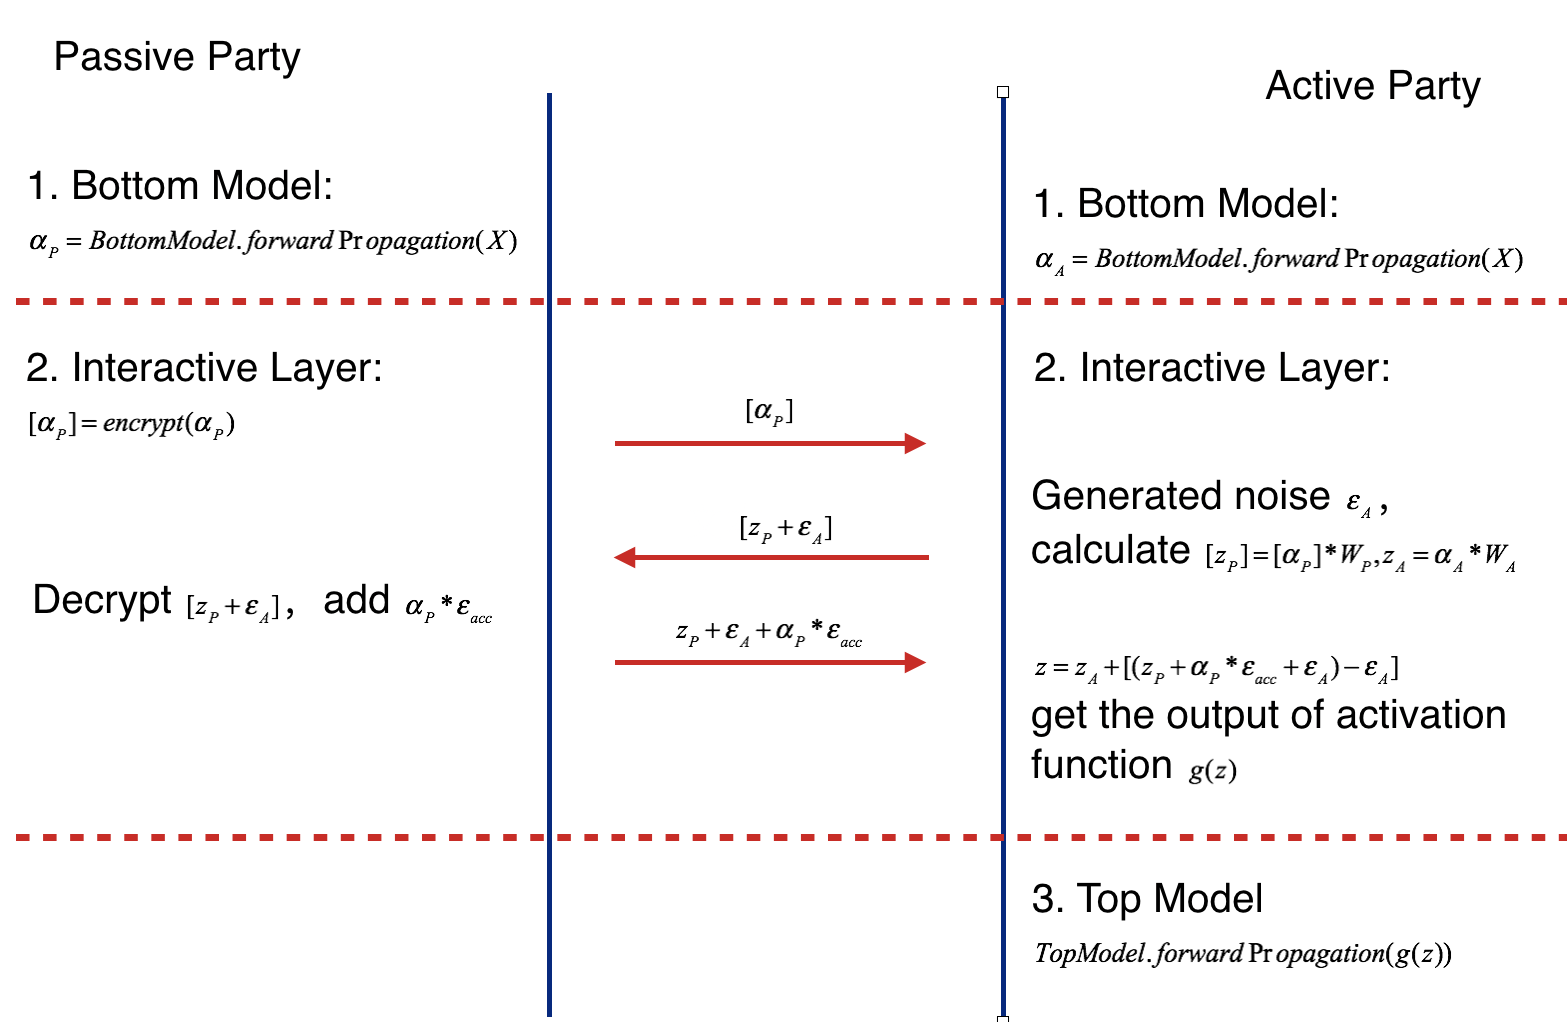
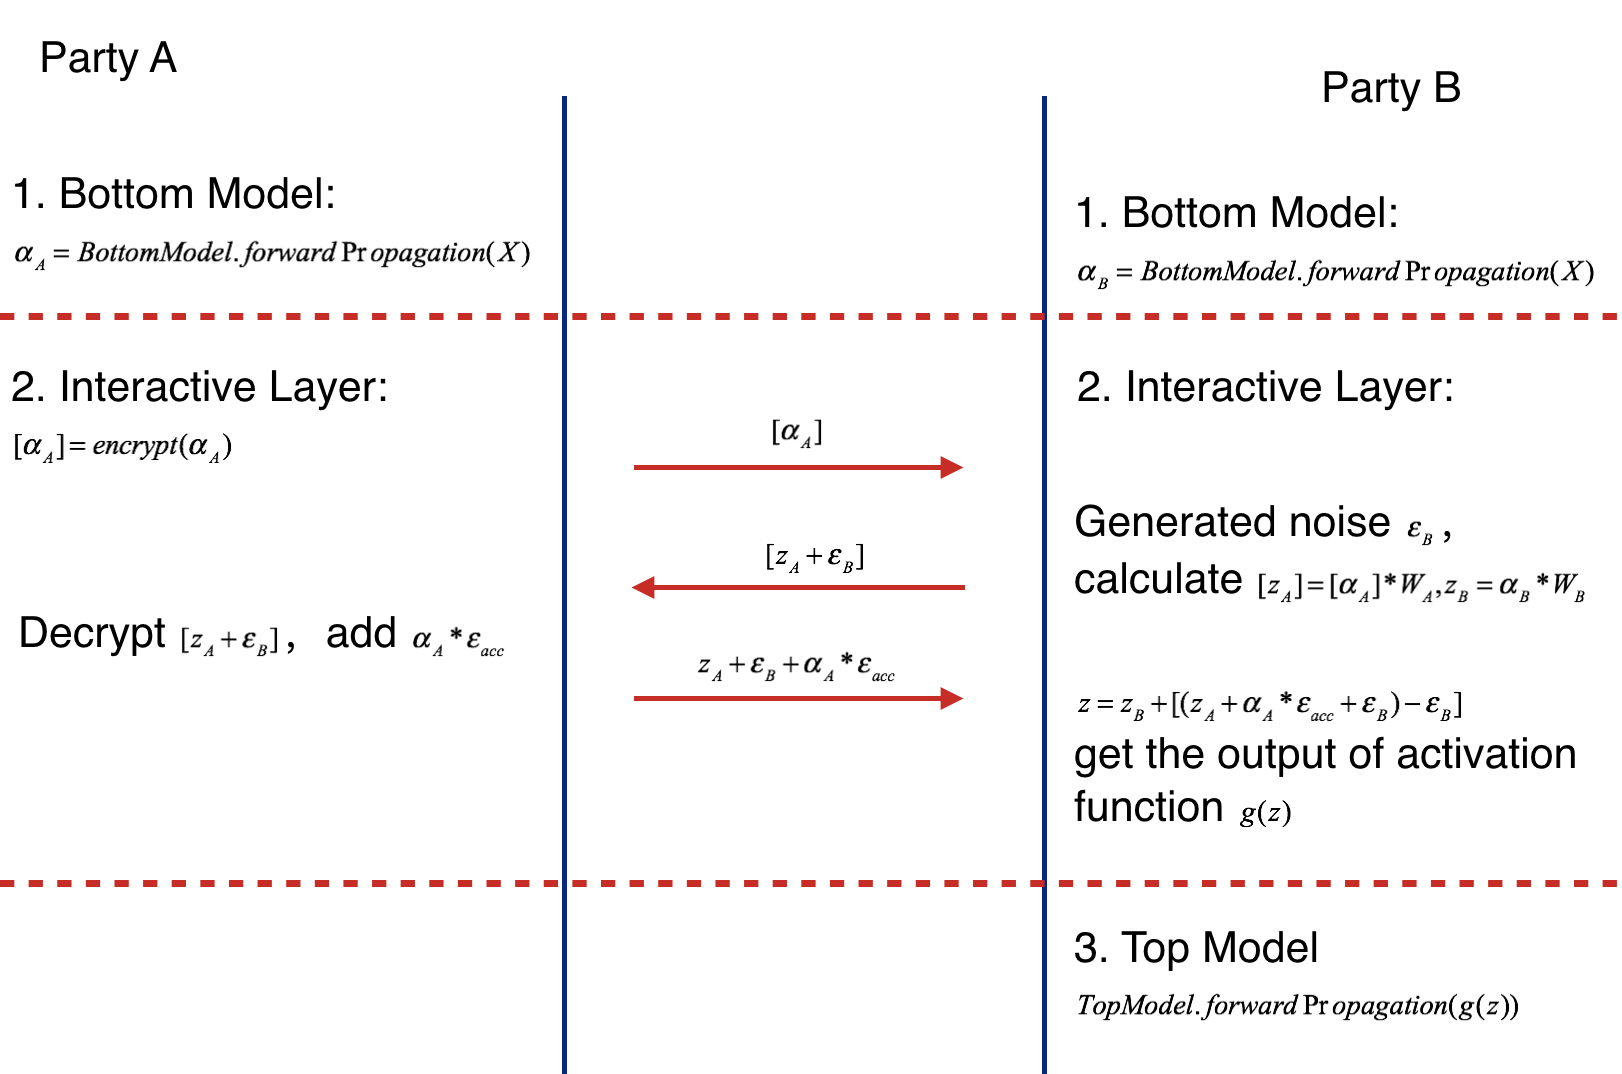
modify readme doc of heteronn

diff --git a/federatedml/param/hetero_nn_param.py b/federatedml/param/hetero_nn_param.py
@@ -29,6 +29,32 @@ from federatedml.util import consts
 
 
 class HeteroNNParam(BaseParam):
+    """
+    Parameters used for Homo Neural Network.
+
+    Args:
+        task_type: str, task type of hetero nn model, one of 'classification', 'regression'.
+        config_type: str, accept "keras" only.
+        bottom_nn_define: a dict represents the structure of bottom neural network.
+        interactive_layer_define: a dict represents the structure of interactive layer.
+        interactive_layer_lr: float, the learning rate of interactive layer.
+        top_nn_define: a dict represents the structure of top neural network.
+        optimizer: optimizer method, accept following types:
+            1. a string, one of "Adadelta", "Adagrad", "Adam", "Adamax", "Nadam", "RMSprop", "SGD"
+            2. a dict, with a required key-value pair keyed by "optimizer",
+                with optional key-value pairs such as learning rate.
+            defaults to "SGD"
+        loss:  str, a string to define loss function used
+        metrics: list object, evaluation metrics
+        epochs: int, the maximum iteration for aggregation in training.
+        batch_size : int, batch size when updating model.
+            -1 means use all data in a batch. i.e. Not to use mini-batch strategy.
+            defaults to -1.
+        early_stop : str, accept 'diff' only in this version, default: 'diff'
+            Method used to judge converge or not.
+                a)	diff： Use difference of loss between two iterations to judge whether converge.
+    """
+
     def __init__(self,
                  task_type='classification',
                  config_type="keras",

diff --git a/federatedml/nn/hetero_nn/README.md b/federatedml/nn/hetero_nn/README.md
@@ -7,7 +7,7 @@ advantage of Hetero NN is that it provides the same level of accuracy as the non
 at the same time, reveal no information of each private data provider.
 
  
-## 1. Basic FrameWork
+## Basic FrameWork
 
 The following figure shows the proposed Federated Heterogeneous Neural Network framework.
 <div style="text-align:center" align=center>
@@ -15,39 +15,39 @@ The following figure shows the proposed Federated Heterogeneous Neural Network f
 <br/>
 Figure 1: Framework of Federated Heterogeneous Neural Network</div>
 
-Active Party: We define the active party as the data provider who holds both a data matrix and the class label. Since the class label information is indispensable for supervised learning, there must be an active party with access to the label y.
-The active party naturally takes the responsibility as a dominating server in federated learning. 
+Party B: We define the party B as the data provider who holds both a data matrix and the class label. Since the class label information is indispensable for supervised learning, there must be an party with access to the label y.
+The party B naturally takes the responsibility as a dominating server in federated learning. 
 
-Passive Party: We define the data provider which has only a data matrix as a passive party. Passive parties play the role of clients in the federated learning setting. 
+Party A: We define the data provider which has only a data matrix as party A. Party A plays the role of clients in the federated learning setting. 
 
 The data samples are aligned under an encryption scheme. By using the privacy-preserving protocol for inter-database intersections, the parties can 
  find  their common users or data samples without compromising the non-overlapping parts of the data sets.
 
-Active party and passive party each have their own bottom neural network model, which may be different.
+Party B and party A each have their own bottom neural network model, which may be different.
 The parties jointly build the interactive layer, which is a fully connected layer. This layer's input is the concatenation of the two parties' bottom model output. 
-In addition, only active party owns the model of interactive layer. Lastly, the active party builds the top neural network model and feeds the output of interactive layer to it.
+In addition, only party B owns the model of interactive layer. Lastly, party B builds the top neural network model and feeds the output of interactive layer to it.
 
 
-## 2. Forward Propagation of Federated Heterogeneous Neural Network 
+## Forward Propagation of Federated Heterogeneous Neural Network 
 Forward Propagation Process consists of three parts.
 
 Part Ⅰ: Forward Propagation of Bottom Model.
-1. Passive party feeds its input features X to its bottom model and gets the forward output of bottom model alpha_P
-2. Active Party feeds its input features X to its bottom model and gets the forward output of bottom model  alpha_A if active party has input features.
+1. Party A feeds its input features X to its bottom model and gets the forward output of bottom model alpha_A
+2. Party B feeds its input features X to its bottom model and gets the forward output of bottom model alpha_B if active party has input features.
 
 Part ⅠⅠ: Forward Propagation of Interactive Layer.
-1. Passive party uses additive homomorphic encryption to encrypt alpha_P(mark as [alpha _P] ), and sends the encrypted result to Active Party.
+1. Party A uses additive homomorphic encryption to encrypt alpha_A(mark as [alpha _A] ), and sends the encrypted result to party B.
 
-2. Active Party receives the [alpha_P], multiplies it by interactive layer's passive party model weight W_P, get [z_P].  
-   Active party also multiplies interactive layer's active party by its own bottom output, getting z_A.  
-   Active party generates noise epsilon_A, adds it to [z_P] and sends addition result to Passive party.
+2. Party B receives the [alpha_A], multiplies it by interactive layer's party A model weight W_A, get [z_A].  
+   Party B also multiplies its interactive layer's weight W_B by its own bottom output, getting z_B.  
+   Party B generates noise epsilon_B, adds it to [z_A] and sends addition result to party A.
    
-3. Passive party calculates the product of accumulate noise epsilon_acc and bottom input alpha_P (epsilon_acc * alpha_P). Decrypting the received result [z_P + epsilon_A], Passive party adds the product to it and sends result to Active party.
+3. Party A calculates the product of accumulate noise epsilon_acc and bottom input alpha_A (epsilon_acc * alpha_A). Decrypting the received result [z_A + epsilon_B], Party A adds the product to it and sends result to Active party.
 
-4. Active party subtracts the Passive party's value by epsilon_A( get z_P + epsilon_acc * alpha_P), and feeds z = z_P + epsilon_acc * alpha_P + z_A(if exists) to activation function. 
+4. Party B subtracts the party A's sending value by epsilon_B( get z_A + epsilon_acc * alpha_A), and feeds z = z_A + epsilon_acc * alpha_A + z_B(if exists) to activation function. 
 
-Part ⅠⅠⅠ: Forward Propagation of Interactive Layer.
-1. Active party takes the output of activation function's output of interactive layer g(z) and runs the forward process of top model.
+Part ⅠⅠⅠ: Forward Propagation of Top Model.
+1. Party B takes the output of activation function's output of interactive layer g(z) and runs the forward process of top model.
 
 
 The following figure shows the forward propagation of Federated Heterogeneous Neural Network framework.
@@ -57,26 +57,26 @@ The following figure shows the forward propagation of Federated Heterogeneous Ne
 Figure 2: Forward Propagation of Federated Heterogeneous Neural Network</div>
 
 
-## 3. Backward Propagation of Federated Heterogeneous Neural Network 
+## Backward Propagation of Federated Heterogeneous Neural Network 
 
 Backward Propagation Process also consists of three parts.
 
 Part I: Backward Propagation of Top Model.
-1. Active party calculates the error delta of interactive layer output, then updates top model.
+1. Party B calculates the error delta of interactive layer output, then updates top model.
 
 Part II: Backward Propagation of Interactive layer.
-1. Active party calculates the error delta_act of activation function's output by delta.  
-2. Active party propagates delta_bottomA = delta_act * W_A to bottom model, then updates W_A(W_A -= eta * delta_act * alpha_A).
-3. Active party generates noise epsilon_A, calculates [delta_act * (W_P + epsilon_A] and sends it to Passive party.
-4. Passive party encrypts epsilon_acc, sends [epsilon_acc] to Active party.  
-   Then Active party decrypts the received value, generates noise epsilon_P, adds epsilon_P / eta to decrypted result(delta_act * W_P + epsilon_A + epsilon_P / eta) and epsilon_P to ecc(epsilon_P += epsilon_P). Active party sends the addition result to Active party. (delta_act * W_P + epsilon_A + epsilon_P / eta)  
-5. Active party receives [epsilon_acc] and delta_act * W_P + epsilon_A + epsilon_P / eta. Firstly it sends passive party's bottom model output' error [alpha_P * W_P + acc] to host. 
-   Secondly updates W_P -= eta * (delta_act * W_P + epsilon_A + epsilon_P / eta) - epsilon_A = eta * delta_act * W_P - epsilon_P = W_TRUE - epsilon_acc. Where W_TRUE represents the actually weights.  
-6. Passive party decrypts [alpha_P * (W_P + acc)] and passes alpha_P * (W_P + acc) to its bottom model.
+1. Party B calculates the error delta_act of activation function's output by delta.  
+2. Party B propagates delta_bottomB = delta_act * W_B to bottom model, then updates W_B(W_B -= eta * delta_act * alpha_B).
+3. Party B generates noise epsilon_B, calculates [delta_act * (W_A + epsilon_B] and sends it to party A.
+4. Party A encrypts epsilon_acc, sends [epsilon_acc] to party B.  
+   Then party B decrypts the received value, generates noise epsilon_A, adds epsilon_A / eta to decrypted result(delta_act * W_A + epsilon_B + epsilon_A / eta) and epsilon_A to accumulate noise epsilon_acc(epsilon_acc += epsilon_A). Party A sends the addition result to party B. (delta_act * W_A + epsilon_B + epsilon_A / eta)  
+5. Party B receives [epsilon_acc] and delta_act * W_A + epsilon_B + epsilon_A / eta. Firstly it sends party A's bottom model output' error [alpha_A * W_A + acc] to host. 
+   Secondly updates W_A -= eta * (delta_act * W_A + epsilon_B + epsilon_A / eta) - epsilon_B = eta * delta_act * W_A - epsilon_B = W_TRUE - epsilon_acc. Where W_TRUE represents the actually weights.  
+6. Party A decrypts [alpha_A * (W_A + acc)] and passes alpha_A * (W_A + acc) to its bottom model.
 
 
-Part III: Backward Propagation of Interactive layer.
-1. Active party and Passive party updates their bottom model separately.
+Part III: Backward Propagation of Bottom Model.
+1. Party B and party A updates their bottom model separately.
 
 The following figure shows the backward propagation of Federated Heterogeneous Neural Network framework.
 <div style="text-align:center" align=center>
@@ -85,8 +85,10 @@ The following figure shows the backward propagation of Federated Heterogeneous N
 Figure 3: Backward Propagation of Federated Heterogeneous Neural Network</div>
    
   
-### Other features
-* Allow active party's input data has labels only.
+## Other features
+* Allow party B's training without features.
 * Support evaluate training and validate data during training process
- 
 
+ 
+## Reference
+[1] Qiao Zhang, Cong Wang, Hongyi Wu, Chunsheng Xin and Tran V. Phuong. GELU-Net: A Globally Encrypted, Locally Unencrypted Deep Neural Network for Privacy-Preserved Learning
